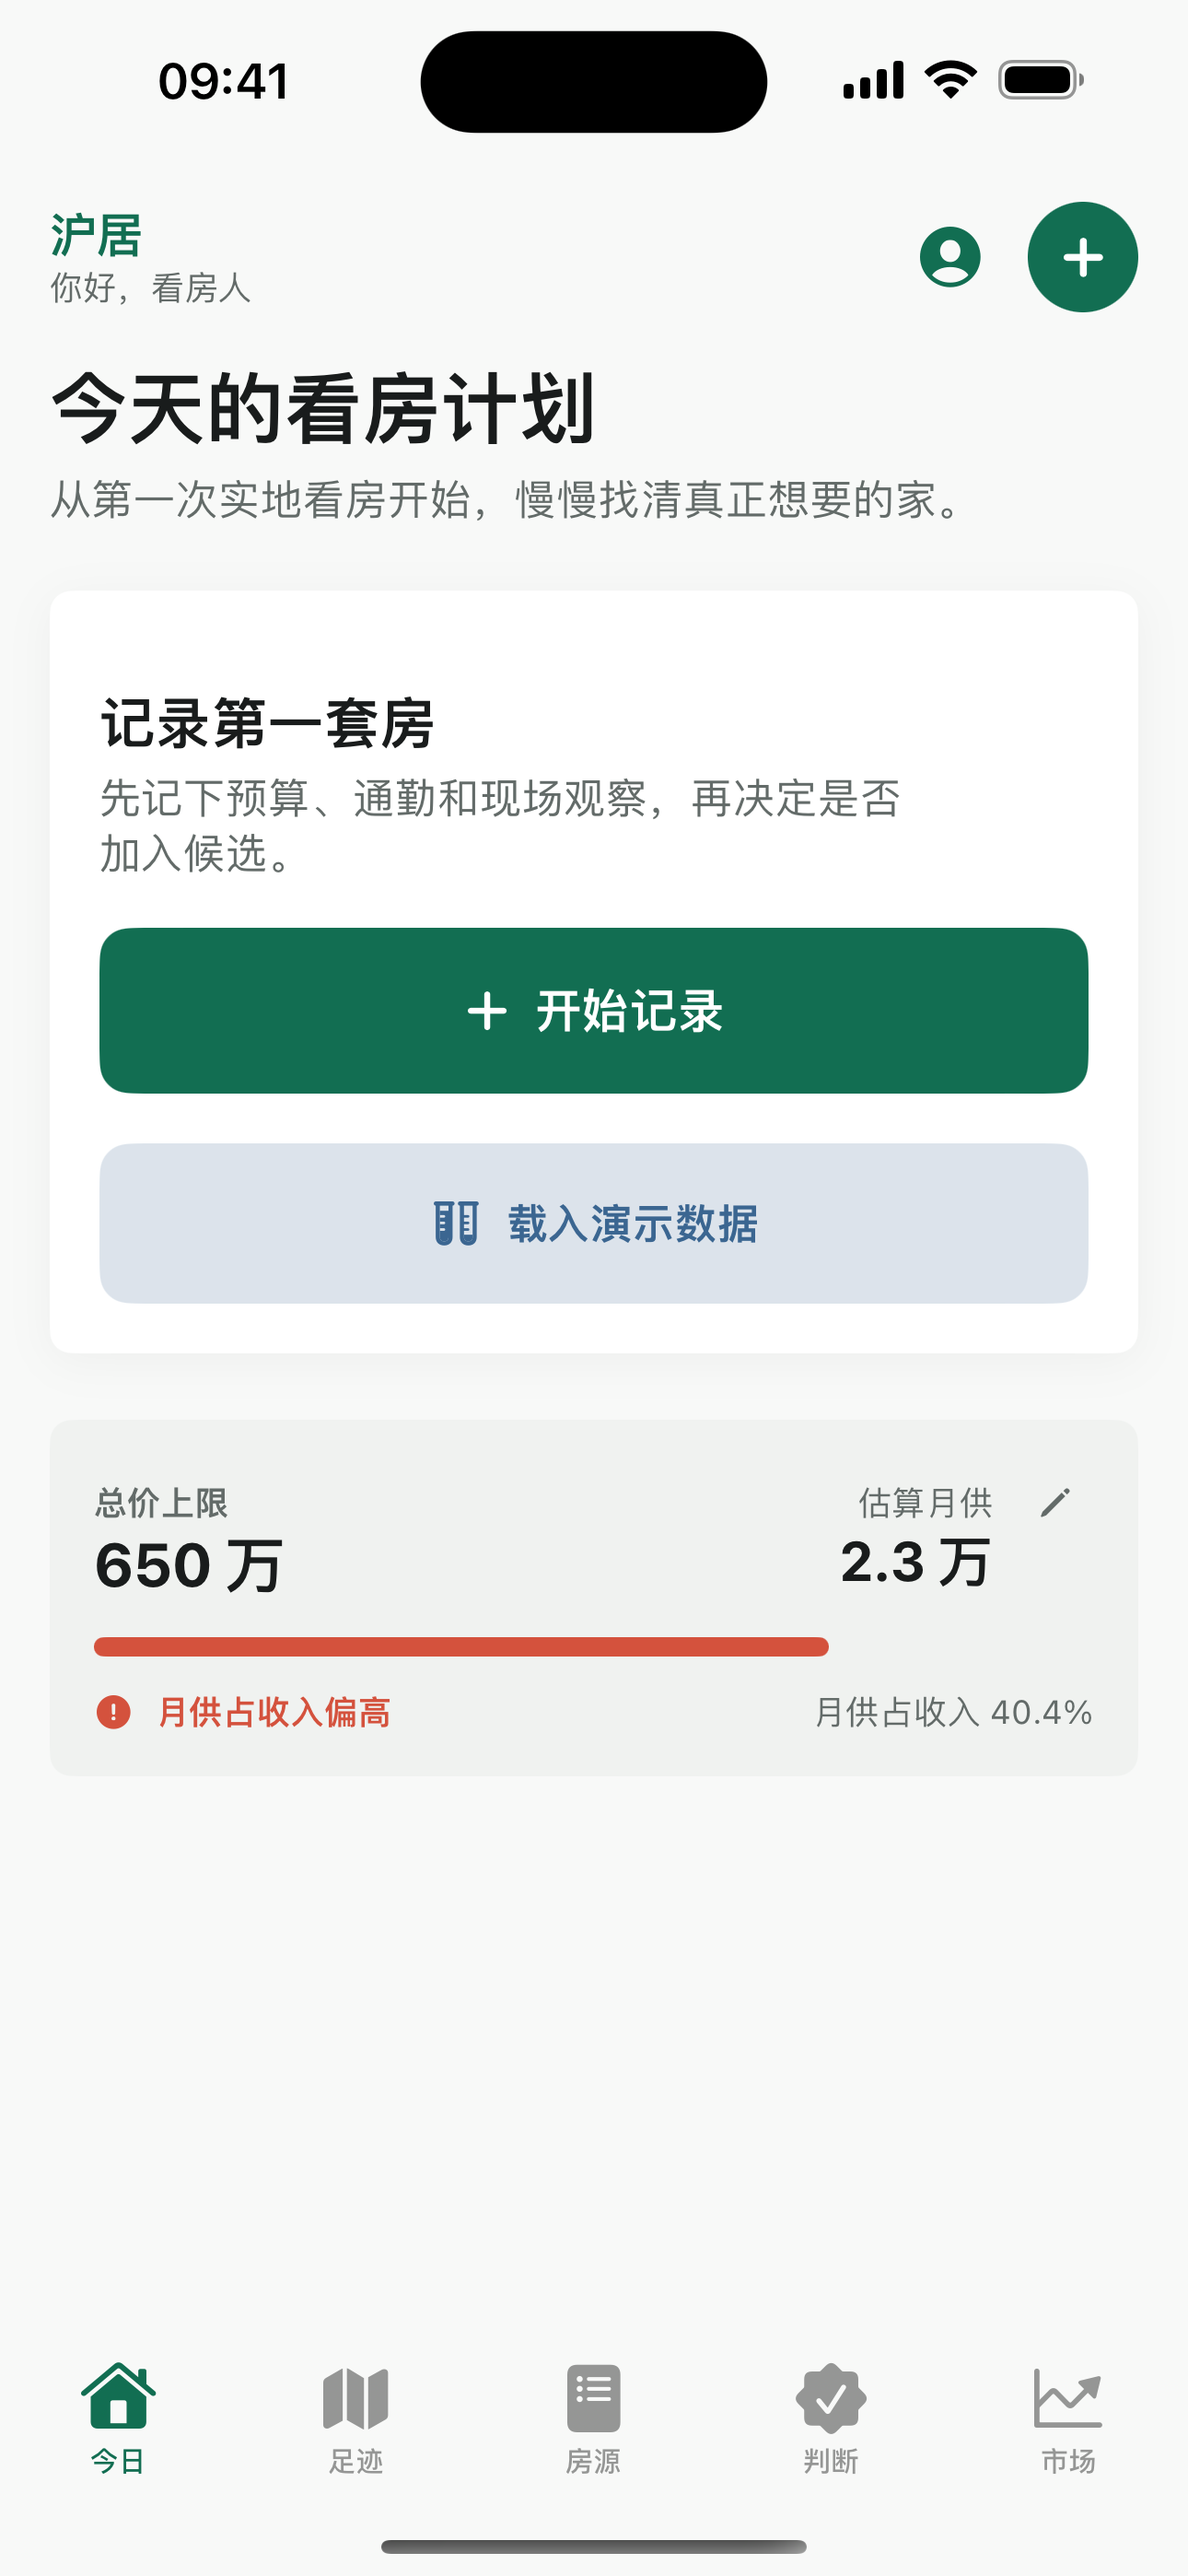
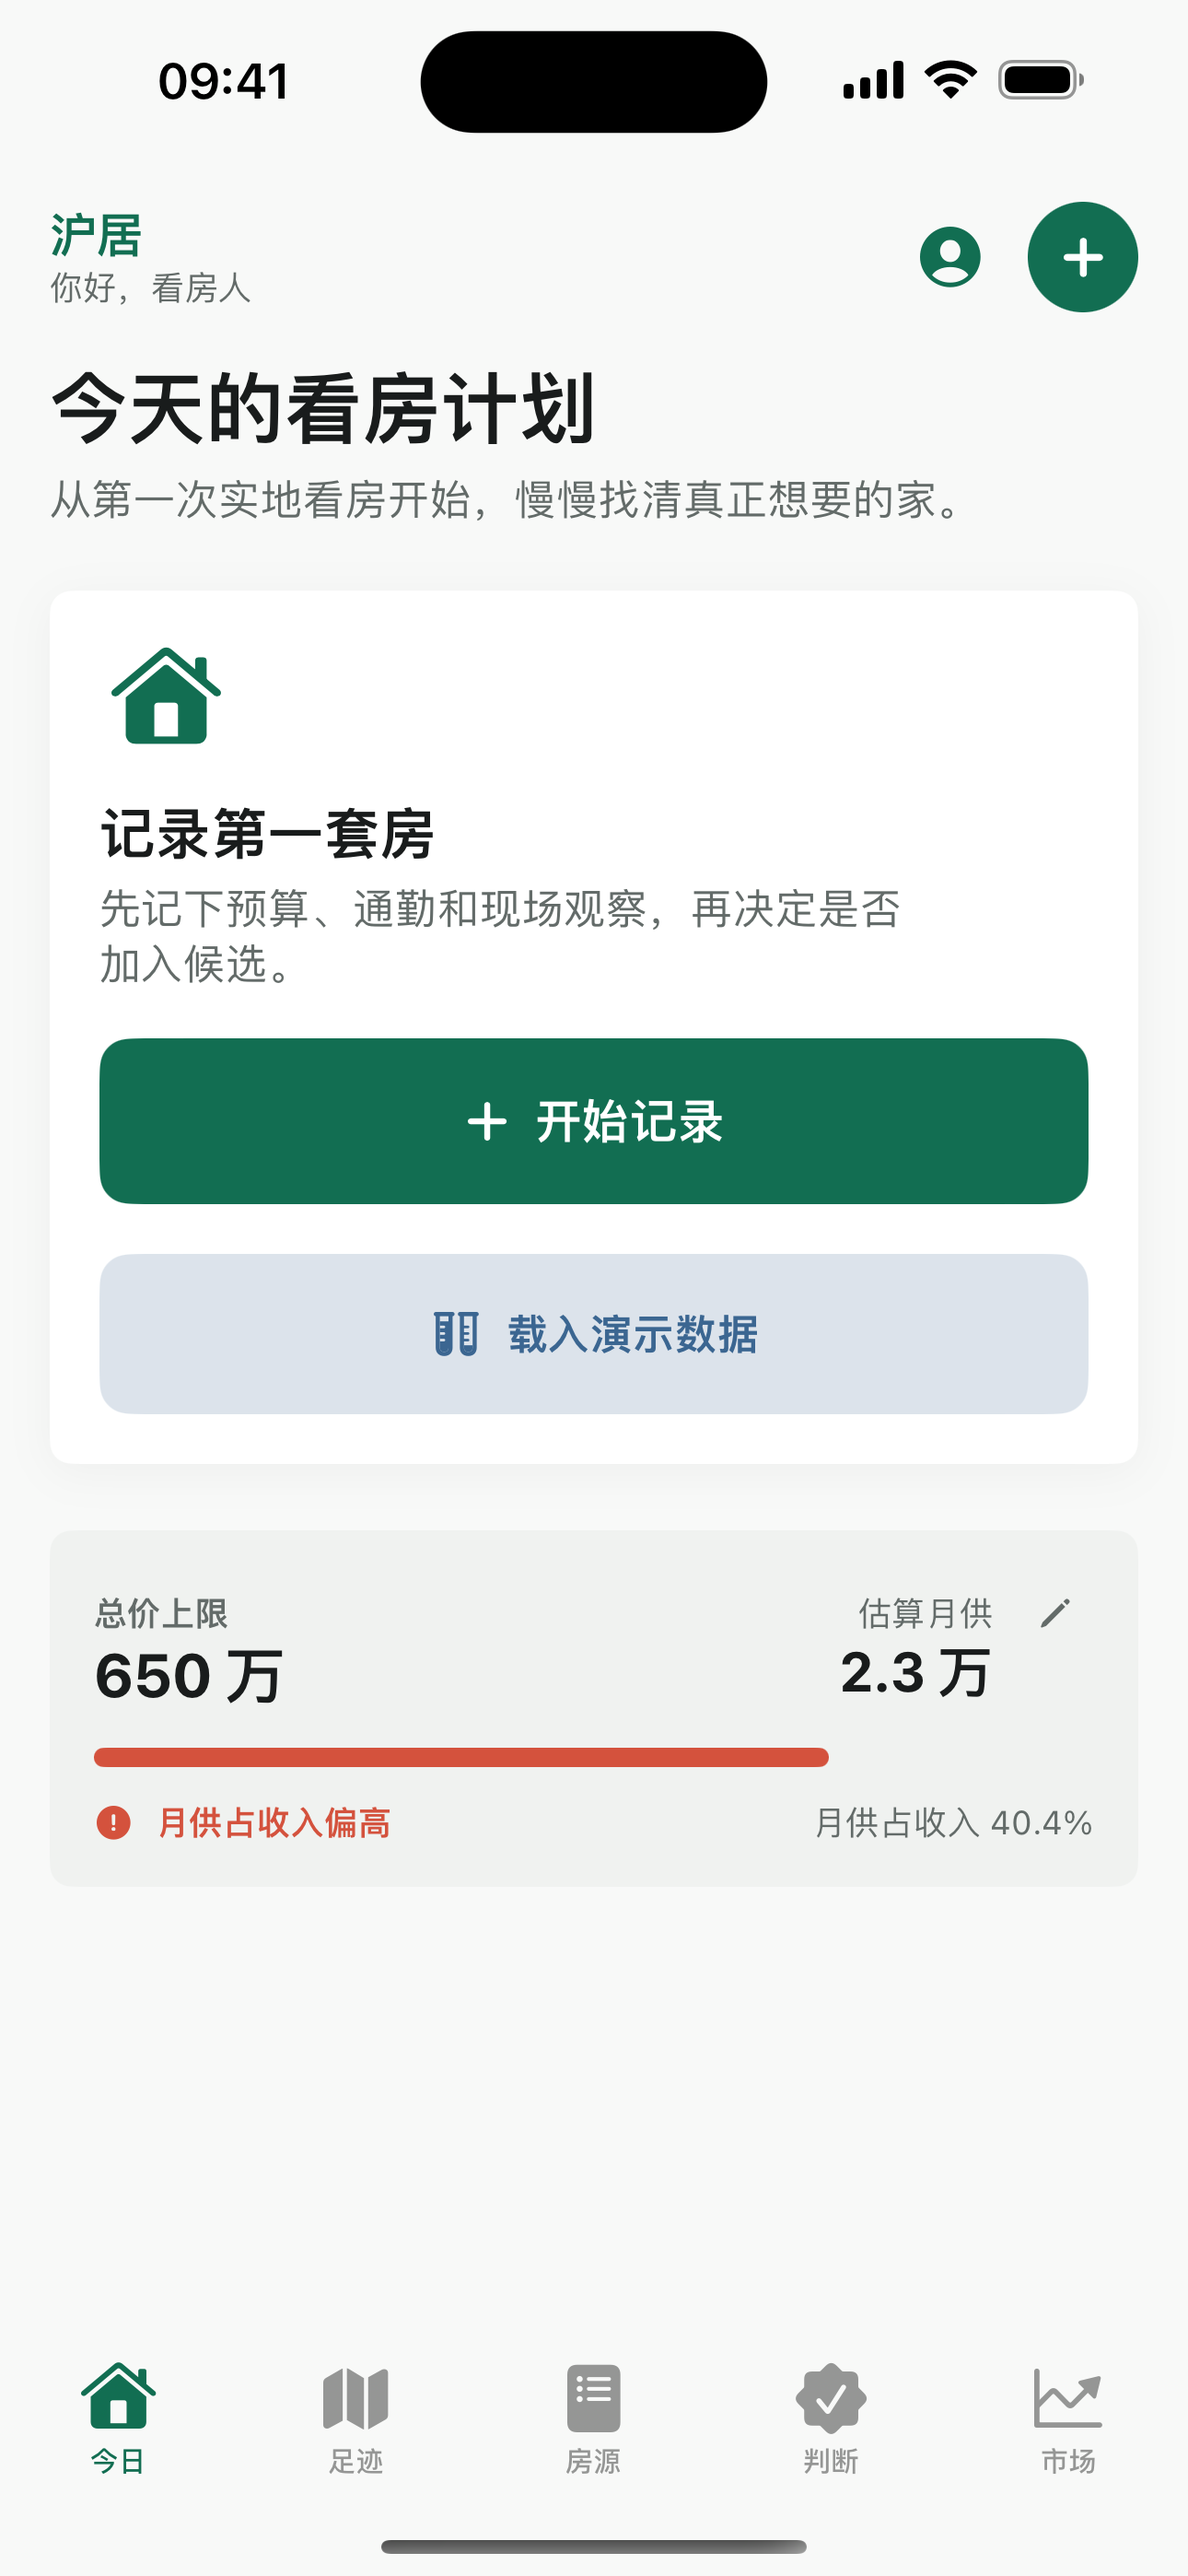
chore: automate App Store release

Changed region(s): [[0.062, 0.2489, 0.9302, 0.7157], [0.5891, 0.28, 0.7132, 0.3112]]

diff --git a/HuJu/RootView.swift b/HuJu/RootView.swift
@@ -282,7 +282,7 @@ private struct HomeView: View {
 
     private var emptyWorkspace: some View {
         VStack(alignment: .leading, spacing: 18) {
-            Image(systemName: "house.badge.plus")
+            Image(systemName: "house.fill")
                 .font(.system(size: 34))
                 .foregroundStyle(HuJuTheme.green)
 

diff --git a/README.md b/README.md
@@ -80,6 +80,25 @@ python3 scripts/update_market_data.py --start-year 2024 --end-year 2026
 微信登录客户端原型保留在代码中，但 1.0 版本不展示该入口。待开放平台、服务端换票、
 账号删除和隐私披露完整上线后再启用。
 
+## App Store 发布
+
+发布前需在 Xcode 的 `Settings > Accounts` 中登录开发者账号，并确认 App ID
+`com.zhangjingwei.huju` 已启用 Sign in with Apple。
+
+```bash
+# 检查发行证书与工程配置
+./scripts/release_ios.sh preflight
+
+# 正式归档并导出 IPA
+./scripts/release_ios.sh all
+
+# 使用已验证的 Archive 上传 App Store Connect
+./scripts/release_ios.sh upload
+```
+
+脚本会校验发行签名、Bundle ID、嵌入的 provisioning profile 和 Sign in with Apple
+entitlement。归档、IPA 和过程日志保存在忽略提交的 `artifacts/` 目录。
+
 ## Skills
 
 AgentBuddy 已将 `ios-swift` 1.0.1 项目级安装到 `.trae/skills/ios-swift`。
